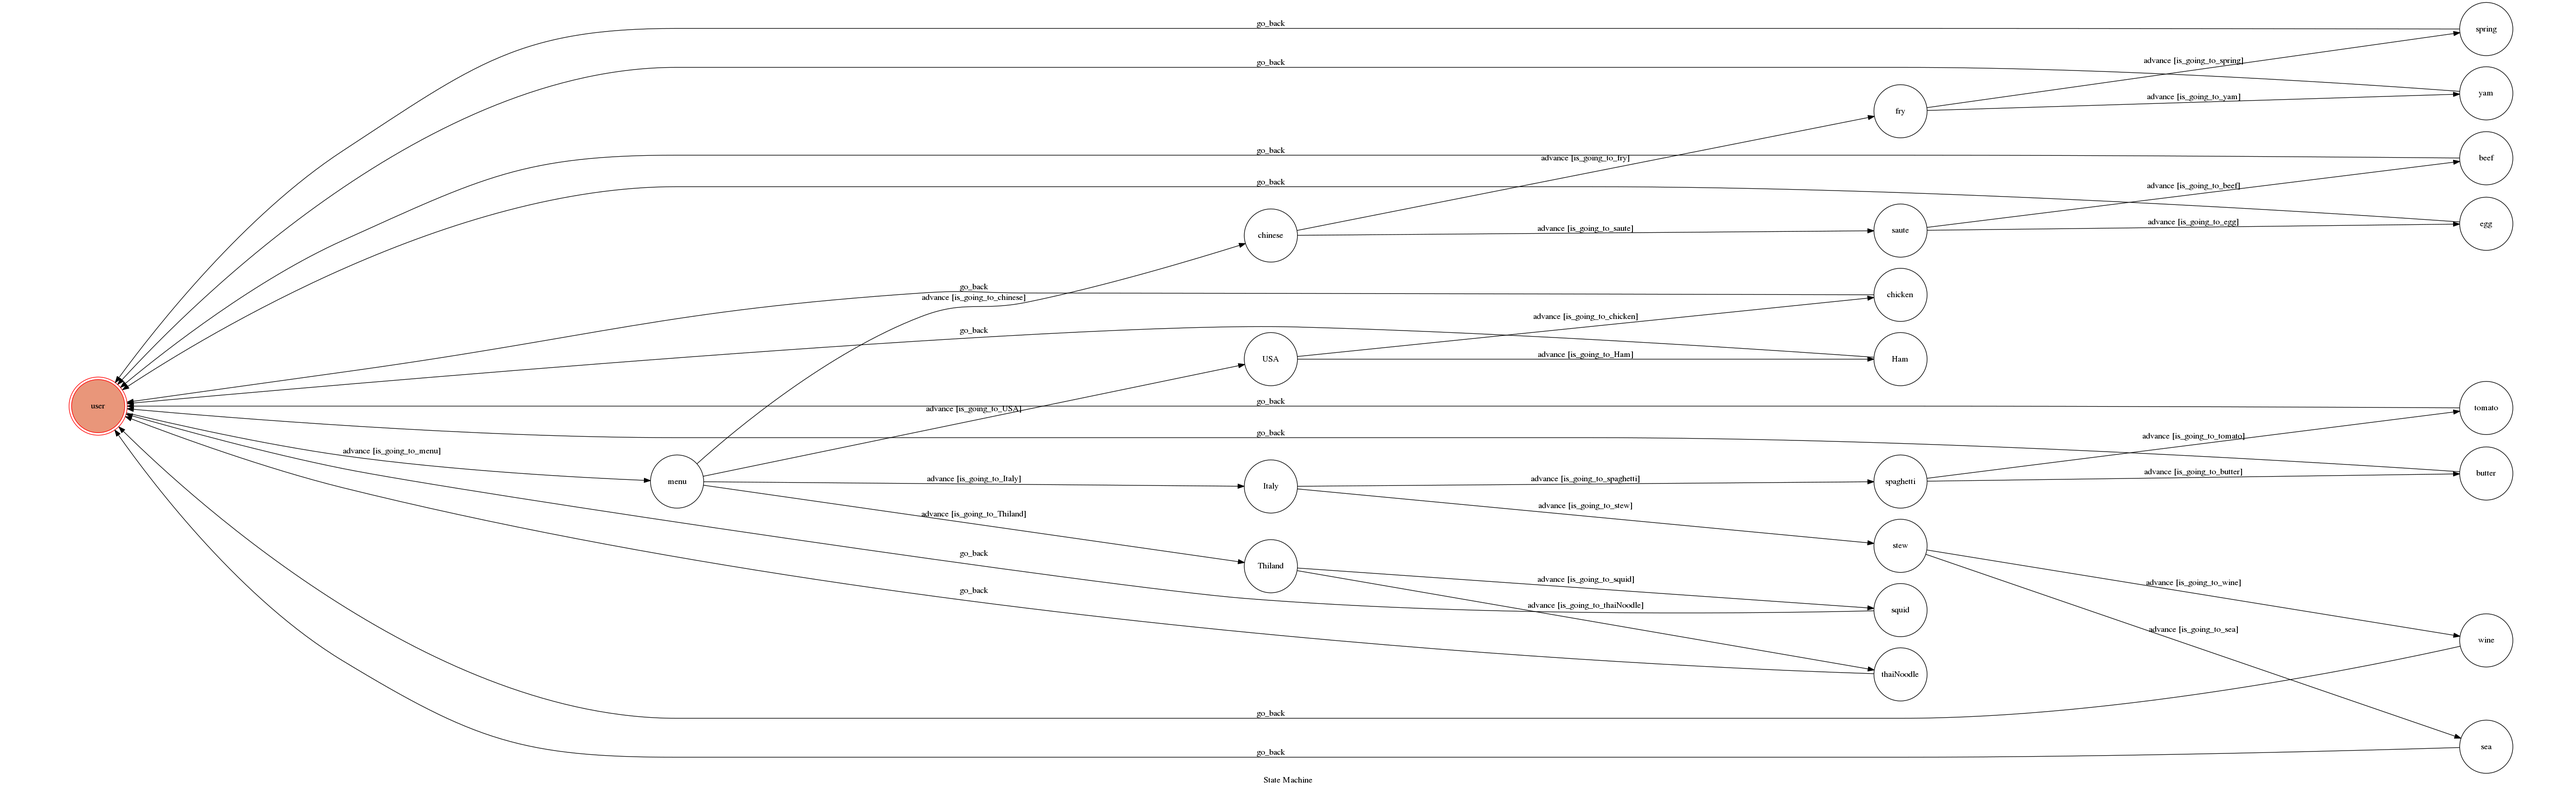
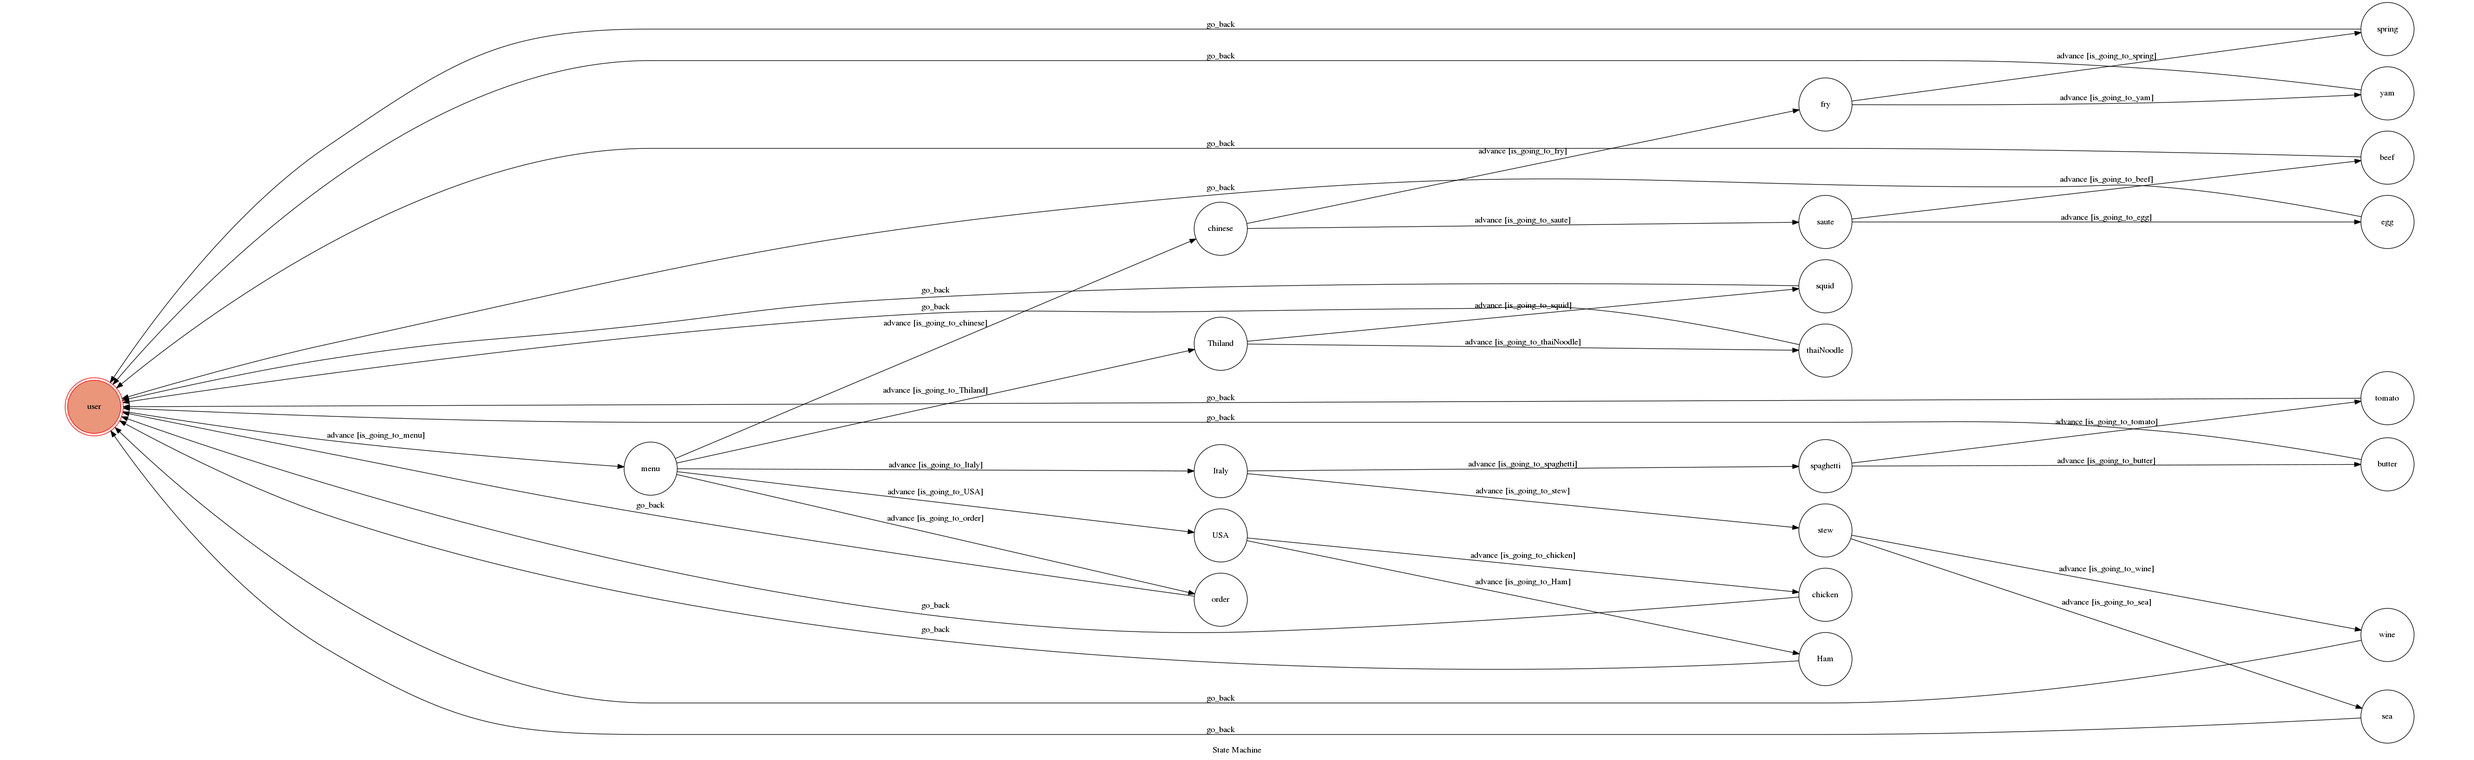
新增爬蟲

diff --git a/fsm.py b/fsm.py
@@ -1,5 +1,8 @@
 from transitions.extensions import GraphMachine
-
+import requests
+import time
+import s
+from bs4 import BeautifulSoup
 
 class TocMachine(GraphMachine):
     def __init__(self, **machine_configs):
@@ -8,10 +11,23 @@ class TocMachine(GraphMachine):
             **machine_configs
         )
 
+    def get_web_page(url):
+        resp = requests.get(
+            url=url,
+        )
+        if resp.status_code != 200:
+            print('Invalid url:', resp.url)
+            return None
+        else:
+            return resp.text
+ 
     def is_going_to_menu(self, update):
         text = update.message.text
         return text.lower() == 'menu'
 
+    def is_going_to_order(self, update):
+        text = update.message.text
+        return text.lower() == '0'
     def is_going_to_chinese(self, update):
         text = update.message.text
         return text.lower() == '1'
@@ -84,10 +100,20 @@ class TocMachine(GraphMachine):
 
     def on_enter_menu(self, update):
         print('enter menu')
-        update.message.reply_text("請輸入 1 中式，2 義式，3 泰式，4 美式")
+        update.message.reply_text("請輸入 0 查詢食譜排行榜 1 中式，2 義式，3 泰式，4 美式")
         self.advance(update)
     def on_exit_menu(self, update):
         print('Leaving menu')
+
+
+    def on_enter_order(self, update):
+        print('enter order')
+        orderStr=s.run()
+        update.message.reply_text(orderStr)
+        self.go_back(update)
+    def on_exit_order(self, update):
+        print('Leaving order')
+
 
     def on_enter_chinese(self, update):
         print('enter chinese')

diff --git a/s.py b/s.py
@@ -1,0 +1,38 @@
+import requests
+import time
+from bs4 import BeautifulSoup
+
+
+def get_web_page(url):
+    resp = requests.get(
+        url=url,
+    )
+    if resp.status_code != 200:
+        print('Invalid url:', resp.url)
+        return None
+    else:
+        return resp.text
+
+
+def get_articles(dom):
+    soup = BeautifulSoup(dom, 'html.parser')
+    tag = soup.find_all('a','recipe-name')
+    articles=tag
+               
+    return articles
+
+
+def run():
+    page = get_web_page('https://icook.tw/recipes/popular?ref=icook-footer')
+    if page:
+        current_articles = get_articles(page)
+        i=1
+        s=''
+        for post in current_articles:   
+            temp=str(post)
+            num=int(temp.find("\" href="))
+            #print('The Number {0}: {1}'.format(i, temp[35:num]))
+            s=s+'The Number {0}: {1}\n'.format(i, temp[35:num])
+            i=i+1
+    return s
+            

diff --git a/app.py b/app.py
@@ -36,6 +36,7 @@ machine = TocMachine(
         'USA',
         'chicken',
         'Ham',
+        'order',
     ],
     transitions=[
         {
@@ -43,6 +44,12 @@ machine = TocMachine(
             'source': 'user',
             'dest': 'menu',
             'conditions': 'is_going_to_menu'
+        },
+        {
+            'trigger': 'advance',
+            'source': 'menu',
+            'dest': 'order',
+            'conditions': 'is_going_to_order'
         },
         {
             'trigger': 'advance',
@@ -180,6 +187,7 @@ machine = TocMachine(
                 'thaiNoodle',
                 'chicken',
                 'Ham',
+                'order',
             ],
             'dest': 'user'
         }

diff --git a/README.md b/README.md
@@ -1,7 +1,7 @@
     run the code:   python3 app.py
 
-   聊天室的名字是胖子，用來查詢食譜，總共有四大類食譜（中式，義式，泰式，美式）
-   
+   聊天室的名字是胖子，用來查詢食譜，總共有四大類食譜（中式，義式，泰式，美式）；並且也能查詢在愛食譜上的食譜排名
+ 
    範例：
 1.      一開始進來robot，需要輸入menu，聊天機器人就會開啟選單，
 2.      輸入數字(ex:1)就可進入中式餐點
@@ -9,5 +9,7 @@
 4.      再輸入"1st"就可以看到炸春捲的食譜。
 看到食譜後，若想要再查詢其他食譜，需要再輸一次"menu"
 
+
+查詢食譜的功能是利用爬蟲，所以能得到最新的資訊
 
   
